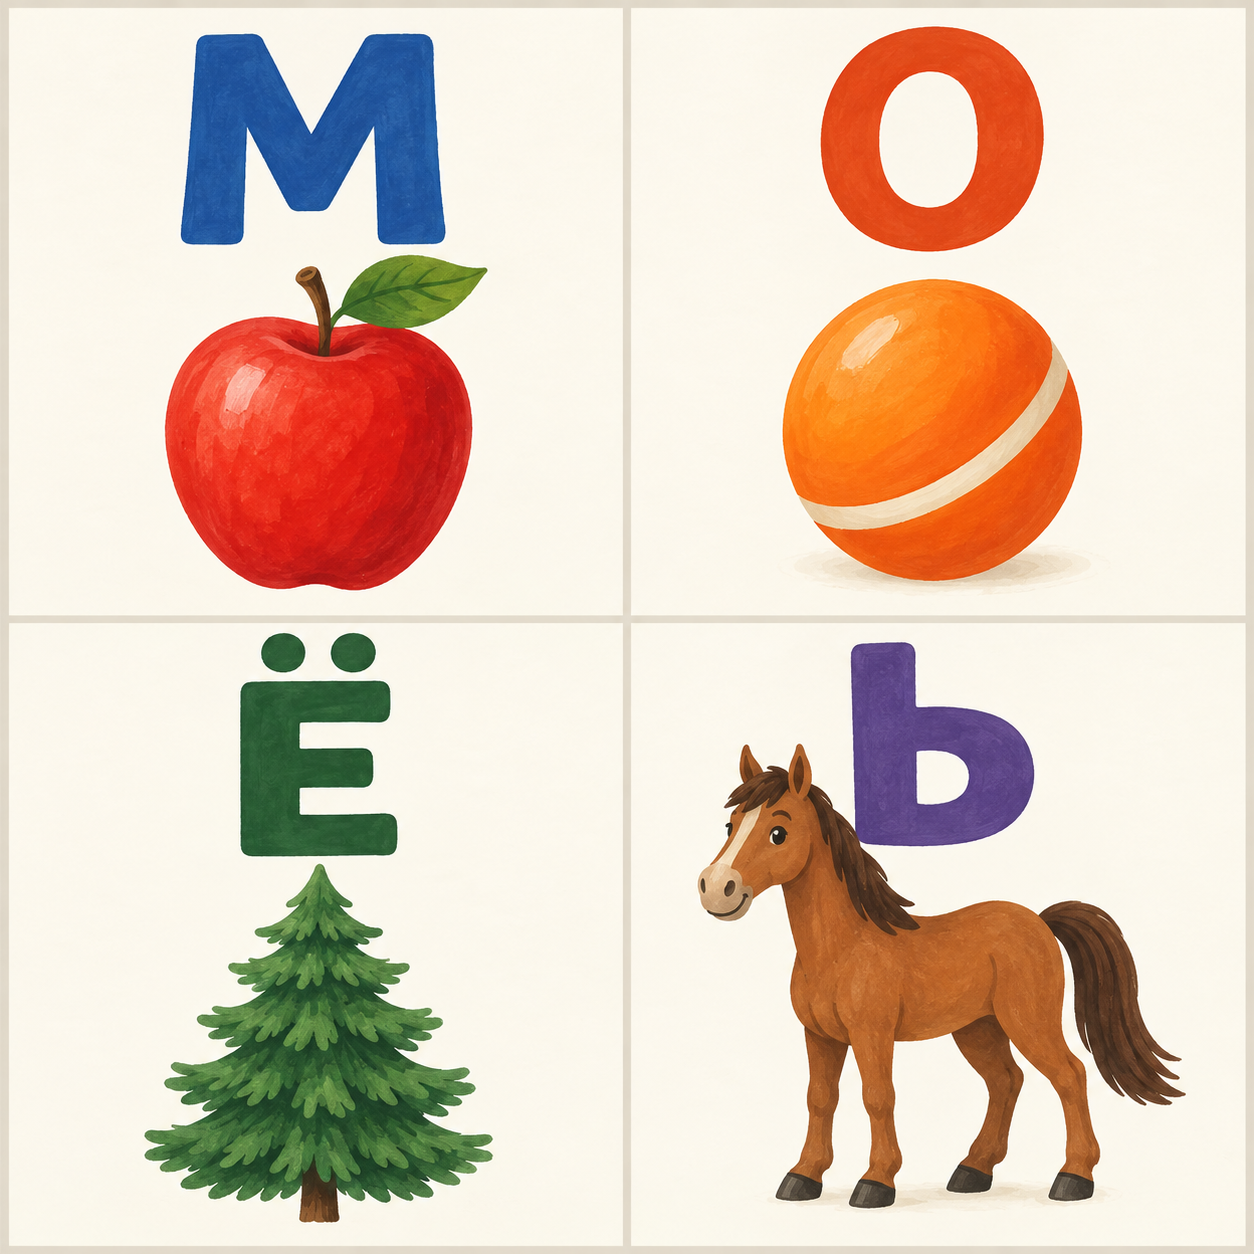
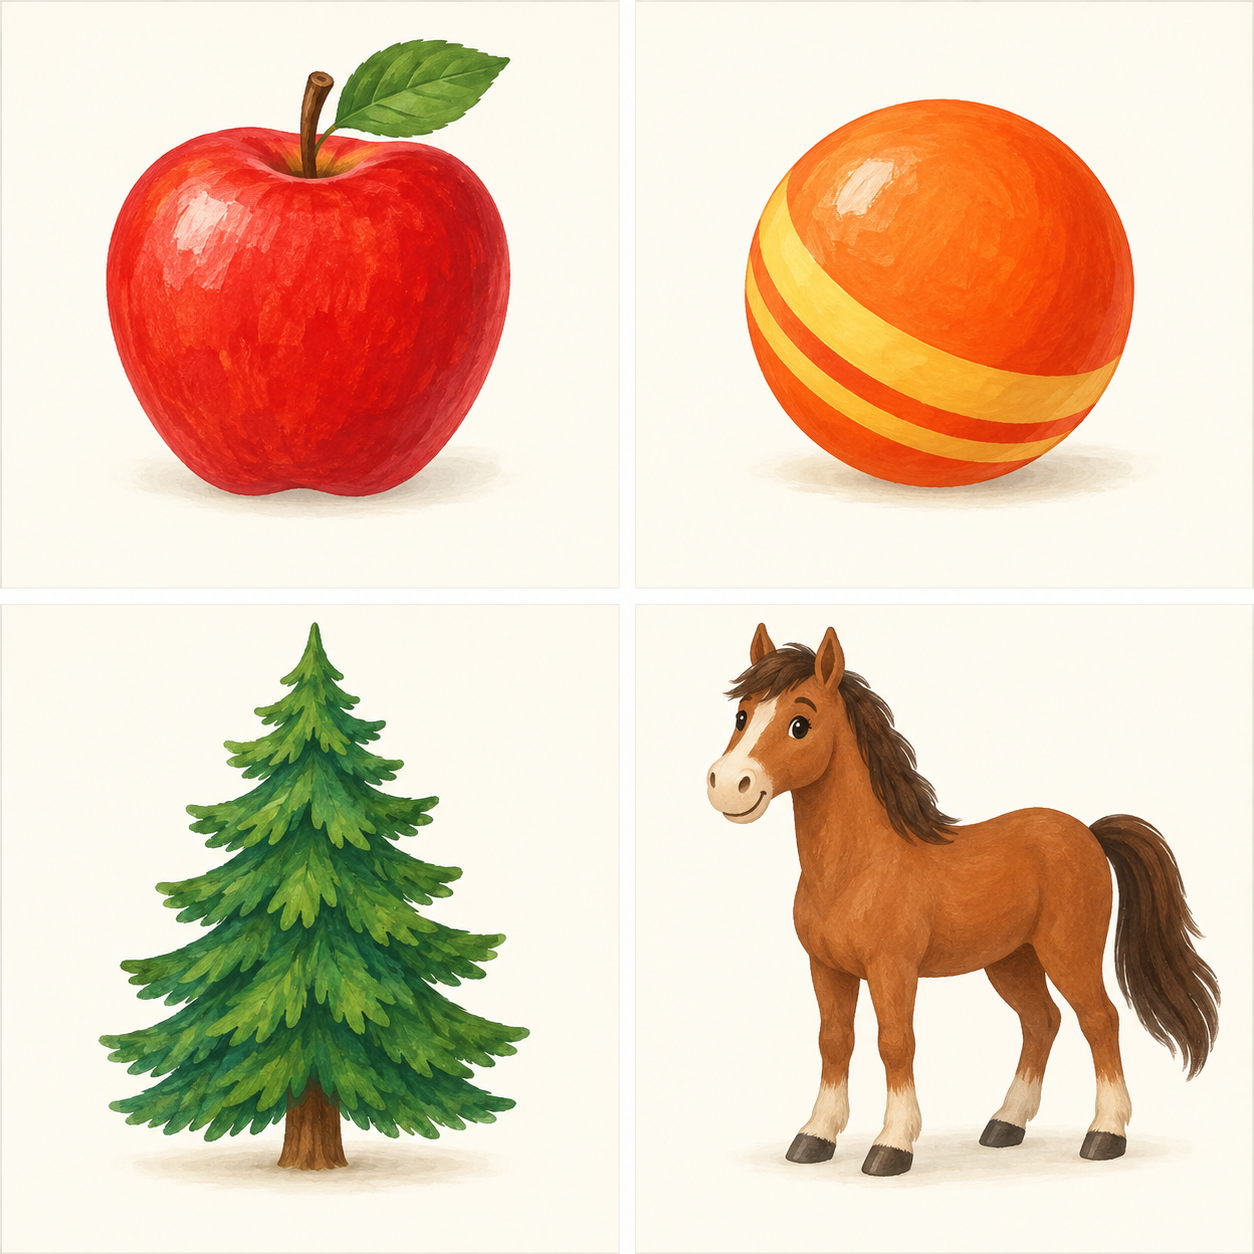
Add GitHub Pages checks and interactive E lesson

diff --git a/src/App.tsx b/src/App.tsx
@@ -4,8 +4,10 @@ import { letters, type Letter } from './content/schema'
 import { audio } from './services/audio'
 import { WritingPad } from './features/writing/WritingPad'
 import { examples } from './content/examples'
+import { EGame } from './features/games/EGame'
 import './App.css'
 import './word-list.css'
+import './features/games/games.css'
 
 function App() {
   const [selected, setSelected] = useState<Letter>(letters[0])
@@ -16,7 +18,7 @@ function App() {
   return <main>
     <header className="topbar"><button className="brand" onClick={() => setView('alphabet')}><span className="brand-mark">А</span><span>Русская азбука</span></button><div className="top-actions"><span className="prototype-pill"><Sparkles size={14}/> прототип</span><button className="icon-button" aria-label="Настройки"><Settings2 size={22}/></button></div></header>
     {view === 'alphabet' && <section className="page-shell alphabet-view"><div className="section-heading"><div><span className="eyebrow">РУССКАЯ АЗБУКА · 4–6 ЛЕТ</span><h1 className="catalog-title">Выбери букву</h1></div></div><p className="intro">Нажми на букву, чтобы послушать слово, увидеть картинку и попробовать написать её рукой. Четыре карточки уже интерактивны; остальные подготовлены для следующего шага.</p><div className="letter-grid">{available.map(letter => <button className={`letter-tile ${letter.prototype ? 'ready' : ''}`} key={letter.id} onClick={() => { setSelected(letter); setView('card') }}><span>{letter.uppercase}</span><small>{letter.lowercase}</small><b>{letter.word}</b>{letter.prototype && <i>можно играть</i>}</button>)}</div></section>}
-    {view === 'card' && <section className="page-shell card-view"><button className="back-link" onClick={() => setView('alphabet')}>← Вся азбука</button><div className="card-layout"><div className="letter-card"><span className="eyebrow">ЗНАКОМСТВО</span><div className="big-glyph">{selected.uppercase}<small>{selected.lowercase}</small></div>{['М','О','Ё','Ь'].includes(selected.uppercase) ? <div className="word-art generated" role="img" aria-label={`Иллюстрация: ${selected.word}`} style={{backgroundImage:'url(/assets/alphabet-objects.png)',backgroundSize:'200% 200%',backgroundPosition:selected.uppercase==='М'?'0% 0%':selected.uppercase==='О'?'100% 0%':selected.uppercase==='Ё'?'0% 100%':'100% 100%'}} /> : <div className="word-art illustration-pending"><span>Иллюстрация<br/>готовится</span></div>}<div className="word-list">{(examples[selected.uppercase] ?? [selected.accentedWord]).map(word => <button key={word} onClick={() => speak(word)}><Volume2 size={16}/><strong>{word}</strong></button>)}</div><div className="audio-actions"><button onClick={() => speak(`Буква ${selected.uppercase}`)}><Volume2 size={20}/> Слушать букву</button></div>{soundError && <p className="error">Звук не запустился. Нажми ещё раз после касания.</p>}</div><div className="lesson-card"><span className="eyebrow">СЕЙЧАС</span><h2>{selected.uppercase === 'Ь' ? 'Мягкий знак живёт внутри слова' : `Узнаем букву ${selected.uppercase}`}</h2><p>{selected.note}</p><button className="primary full" onClick={() => setView('write')}>Попробовать рукой <ChevronRight size={20}/></button><button className="text-button" onClick={() => speak(selected.uppercase === 'Ь' ? 'У мягкого знака нет своего звука' : selected.word)}>Послушать ещё раз</button></div></div></section>}
+    {view === 'card' && <section className="page-shell card-view"><button className="back-link" onClick={() => setView('alphabet')}>← Вся азбука</button><div className="card-layout"><div className="letter-card"><span className="eyebrow">ЗНАКОМСТВО</span><div className="big-glyph">{selected.uppercase}<small>{selected.lowercase}</small></div>{['М','О','Ё','Ь'].includes(selected.uppercase) ? <div className="word-art generated" role="img" aria-label={`Иллюстрация: ${selected.word}`} style={{backgroundImage:'url(/assets/alphabet-objects.png)',backgroundSize:'200% 200%',backgroundPosition:selected.uppercase==='М'?'0% 0%':selected.uppercase==='О'?'100% 0%':selected.uppercase==='Ё'?'0% 100%':'100% 100%'}} /> : <div className="word-art illustration-pending"><span>Иллюстрация<br/>готовится</span></div>}<div className="word-list">{(examples[selected.uppercase] ?? [selected.accentedWord]).map(word => <button key={word} onClick={() => speak(word)}><Volume2 size={16}/><strong>{word}</strong></button>)}</div><div className="audio-actions"><button onClick={() => speak(`Буква ${selected.uppercase}`)}><Volume2 size={20}/> Слушать букву</button></div>{soundError && <p className="error">Звук не запустился. Нажми ещё раз после касания.</p>}</div><div className="lesson-card"><span className="eyebrow">СЕЙЧАС</span><h2>{selected.uppercase === 'Ь' ? 'Мягкий знак живёт внутри слова' : `Узнаем букву ${selected.uppercase}`}</h2><p>{selected.note}</p>{selected.uppercase === 'Е' && <EGame speak={speak}/>}<button className="primary full" onClick={() => setView('write')}>Попробовать рукой <ChevronRight size={20}/></button><button className="text-button" onClick={() => speak(selected.uppercase === 'Ь' ? 'У мягкого знака нет своего звука' : selected.word)}>Послушать ещё раз</button></div></div></section>}
     {view === 'write' && <section className="page-shell write-view"><button className="back-link" onClick={() => setView('card')}>← К букве {selected.uppercase}</button><WritingPad letter={selected.uppercase}/></section>}
     <footer><span>Прототип · содержание проверяется</span><span>Работает на устройстве, без аккаунта</span></footer>
   </main>

diff --git a/tests/e2e/alphabet.spec.ts b/tests/e2e/alphabet.spec.ts
@@ -1,0 +1,41 @@
+import { expect, test } from '@playwright/test'
+
+test('opens on the alphabet and exposes all 33 letters', async ({ page }) => {
+  await page.goto('/')
+  await expect(page.locator('.letter-tile')).toHaveCount(33)
+  await expect(page.getByRole('heading', { name: 'Выбери букву' })).toBeVisible()
+})
+
+test('letter card has three words and never reuses the horse image for A', async ({ page }) => {
+  await page.goto('/')
+  await page.getByRole('button', { name: /^Аа автобус/ }).click()
+  await expect(page.locator('.word-list button')).toHaveCount(3)
+  await expect(page.locator('.illustration-pending')).toBeVisible()
+  await expect(page.locator('.generated')).toHaveCount(0)
+})
+
+test('writing screen accepts a pointer stroke and keeps controls available', async ({ page }) => {
+  await page.goto('/')
+  await page.getByRole('button', { name: /^Мм мак/ }).click()
+  await page.getByRole('button', { name: /Попробовать рукой/ }).click()
+  const canvas = page.locator('canvas')
+  const box = await canvas.boundingBox()
+  if (!box) throw new Error('writing canvas is not visible')
+  await page.mouse.move(box.x + 50, box.y + 50)
+  await page.mouse.down()
+  await page.mouse.move(box.x + 140, box.y + 120)
+  await page.mouse.up()
+  await expect(page.getByRole('button', { name: /Отменить/ })).toBeEnabled()
+})
+
+test('audio buttons call the browser speech API with Russian text', async ({ page }) => {
+  await page.addInitScript(() => {
+    (window as unknown as { spoken: string[] }).spoken = []
+    class TestUtterance { text: string; lang = ''; rate = 1; voice?: SpeechSynthesisVoice; onerror: (() => void) | null = null; constructor(text: string) { this.text = text } }
+    Object.assign(window, { SpeechSynthesisUtterance: TestUtterance, speechSynthesis: { getVoices: () => [{ lang: 'ru-RU' }], cancel: () => undefined, speak: (utterance: TestUtterance) => (window as unknown as { spoken: string[] }).spoken.push(utterance.text), addEventListener: () => undefined } })
+  })
+  await page.goto('/')
+  await page.getByRole('button', { name: /^Мм мак/ }).click()
+  await page.getByRole('button', { name: 'Слушать слово' }).click()
+  await expect.poll(() => page.evaluate(() => (window as unknown as { spoken: string[] }).spoken)).toContain('мак')
+})

diff --git a/src/features/games/EGame.tsx b/src/features/games/EGame.tsx
@@ -1,0 +1,13 @@
+import { useState } from 'react'
+import { Check, Volume2 } from 'lucide-react'
+
+const choices = ['Е', 'И', 'Ё']
+
+export function EGame({ speak }: { speak: (text: string) => void }) {
+  const [picked, setPicked] = useState<string | null>(null)
+  const [round, setRound] = useState(0)
+  const words = ['ель', 'еда́', 'е́хать']
+  const word = words[round % words.length]
+  const choose = (letter: string) => { setPicked(letter); speak(letter === 'Е' ? 'Правильно, это Е' : `Это ${letter}. Попробуй ещё`) }
+  return <section className="e-game" aria-labelledby="e-game-title"><div className="game-kicker">ИГРА С Е</div><h3 id="e-game-title">Слышим Е в начале слова</h3><div className="game-prompt"><button className="game-speak" onClick={() => speak(word)} aria-label={`Послушать слово ${word}`}><Volume2 size={21}/></button><strong>{word}</strong><span>Какая буква первая?</span></div><div className="game-choices">{choices.map(letter => <button key={letter} className={picked === letter ? (letter === 'Е' ? 'correct' : 'wrong') : ''} onClick={() => choose(letter)}>{letter}</button>)}</div>{picked && <div className={`game-result ${picked === 'Е' ? 'success' : ''}`} role="status">{picked === 'Е' ? <><Check size={17}/> Верно!</> : 'Послушай слово ещё раз.'}<button onClick={() => { setPicked(null); setRound(value => value + 1) }}>Следующее слово</button></div>}</section>
+}

diff --git a/src/features/games/games.css b/src/features/games/games.css
@@ -1,0 +1,1 @@
+.e-game{margin-top:28px;padding:22px;border:1px solid #d4dfd5;border-radius:16px;background:#f7f5ed}.game-kicker{font-size:10px;letter-spacing:.14em;color:#a96734;font-weight:700}.e-game h3{font:700 25px Georgia;margin:9px 0 18px}.game-prompt{display:flex;align-items:center;gap:13px;flex-wrap:wrap;color:#527067}.game-prompt strong{font:700 27px Georgia;color:#285f4c}.game-prompt span{font-size:13px}.game-speak{display:grid;place-items:center;width:42px;height:42px;border-radius:50%;background:#e1ede4;color:#285f4c}.game-choices{display:flex;gap:10px;margin-top:18px}.game-choices button{width:58px;height:58px;border-radius:11px;background:#e5e2d6;font:700 28px Georgia}.game-choices button.correct{background:#b8dcbf;color:#205d3b}.game-choices button.wrong{background:#f4c4b7;color:#8f3f32}.game-result{display:flex;align-items:center;gap:7px;flex-wrap:wrap;margin-top:15px;color:#8f3f32;font-size:13px}.game-result.success{color:#205d3b}.game-result button{background:none;text-decoration:underline;color:inherit;font-weight:700;margin-left:auto}

diff --git a/src/services/audio.ts b/src/services/audio.ts
@@ -3,15 +3,15 @@ class PrototypeAudio {
   private utterance?: SpeechSynthesisUtterance
   private voicesReady = false
   constructor() {
-    if ('speechSynthesis' in window) {
+    if (typeof window !== 'undefined' && 'speechSynthesis' in window) {
       window.speechSynthesis.getVoices()
       window.speechSynthesis.addEventListener('voiceschanged', () => { this.voicesReady = true })
     }
   }
-  stop() { if ('speechSynthesis' in window) window.speechSynthesis.cancel(); this.utterance = undefined }
+  stop() { if (typeof window !== 'undefined' && 'speechSynthesis' in window) window.speechSynthesis.cancel(); this.utterance = undefined }
   speak(text: string, onError: () => void) {
     this.stop()
-    if (!('speechSynthesis' in window)) { onError(); return }
+    if (typeof window === 'undefined' || !('speechSynthesis' in window)) { onError(); return }
     const utterance = new SpeechSynthesisUtterance(text)
     utterance.lang = 'ru-RU'; utterance.rate = 0.8
     const voices = window.speechSynthesis.getVoices()

diff --git a/tests/unit/content.test.ts b/tests/unit/content.test.ts
@@ -1,0 +1,20 @@
+import { describe, expect, it } from 'vitest'
+import { alphabet, letters } from '../../src/content/schema'
+import { examples } from '../../src/content/examples'
+
+describe('alphabet content contract', () => {
+  it('contains the complete Russian alphabet in order', () => {
+    expect(letters).toHaveLength(33)
+    expect(letters.map(letter => letter.uppercase).join('')).toBe(alphabet)
+    expect(new Set(letters.map(letter => letter.id)).size).toBe(33)
+  })
+
+  it('has at least three examples for every letter', () => {
+    for (const letter of letters) expect(examples[letter.uppercase]).toHaveLength(3)
+  })
+
+  it('does not treat hard or soft signs as phonemes', () => {
+    expect(letters.find(letter => letter.uppercase === 'Ь')?.kind).toBe('sign')
+    expect(letters.find(letter => letter.uppercase === 'Ъ')?.kind).toBe('sign')
+  })
+})

diff --git a/playwright.config.ts b/playwright.config.ts
@@ -1,0 +1,8 @@
+import { defineConfig, devices } from '@playwright/test'
+
+export default defineConfig({
+  testDir: './tests/e2e',
+  use: { baseURL: 'http://127.0.0.1:4173', trace: 'retain-on-failure' },
+  webServer: { command: 'npm run preview -- --host 127.0.0.1', url: 'http://127.0.0.1:4173', reuseExistingServer: true },
+  projects: [{ name: 'chromium', use: { ...devices['Desktop Chrome'] } }],
+})

diff --git a/vitest.config.ts b/vitest.config.ts
@@ -1,0 +1,4 @@
+import { defineConfig } from 'vitest/config'
+import react from '@vitejs/plugin-react'
+
+export default defineConfig({ plugins: [react()], test: { environment: 'node', include: ['tests/unit/**/*.test.ts'] } })
